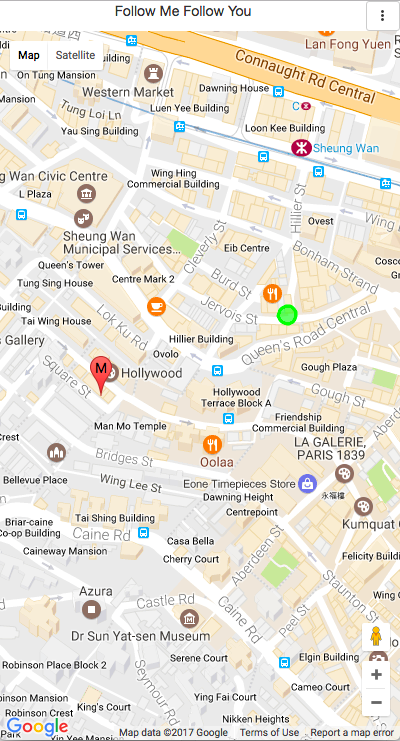
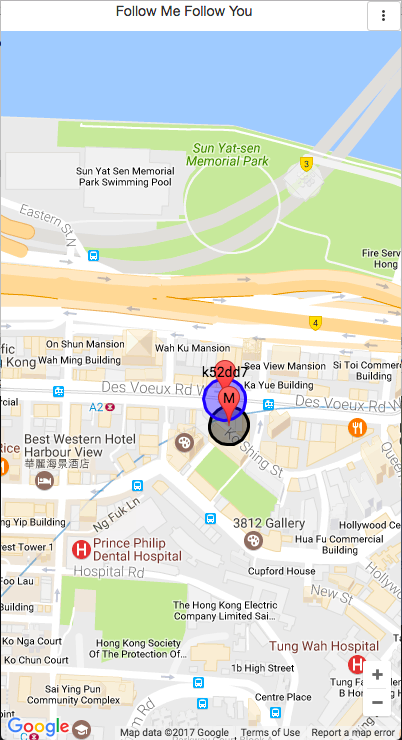
add marker class

diff --git a/js/index.js b/js/index.js
@@ -1,81 +1,155 @@
+var dheight = (window.innerHeight > 0) ? window.innerHeight : scree.height;
 var watchId = {}; //global-scoped variable for stop function to work.
 var mapDiv = document.getElementById("map");
-var uCode = {};
+var uCode = 0;
 var uPosition = {};
 var myCode = document.getElementById("sessionid").innerHTML;
-var myPosition = {};
-var myMarker;
-var uMarker;
+var me;
+var uMarkers = [];
 var gMapKey = 'YOUR_GOOGLE_MAP_JAVASCRIPT_API_KEY';
+var queryUCode;
 
-myCode = myCode.substr(myCode.length-6);
 document.getElementById("myCodeBox").innerHTML = myCode;
 
+$("#uCodeInput").change(function(){
+  uCode = $("#uCodeInput").val();
+})
+
+dheight = dheight -30;
+
+class marker{
+
+  constructor(map, name, scale, location, color = '#F00'){
+    this.map = map;
+    this.name = name;
+    this.scale = scale;
+    this.latlng = {lat: location.lat, lng: location.lng};
+    this.accuracy = location.accuracy;
+    this.color = color;
+
+    this.marker = new google.maps.Marker({
+      position: {lat: location.lat, lng: location.lng},
+      label: this.name,
+      scale: this.scale,
+      animation: google.maps.Animation.DROP,
+      map: this.map
+    });
+
+    this.radius = new google.maps.Circle({
+      center: this.latlng,
+      fillColor: this.color,
+      fillOpacity: 0.4,
+      radius: this.accuracy,
+      strokeColor: this.color,
+      strokeOpacity: 1.0,
+      strokePosition: google.maps.StrokePosition.INSIDE,
+      atrokeWeight: 1,
+      map: this.map
+    });
+
+  }
+
+  updateLocation(location){
+    this.latlng = {lat: location.coords.latitude, lng: location.coords.longitude};
+    this.accuracy = location.coords.accuracy;
+  }
+
+  updateOnMap(){
+    this.marker.setPosition(this.latlng);
+    this.radius.setCenter(this.latlng);
+    this.radius.setRadius(this.accuracy);
+  };
+
+  removeFromMap(){
+    this.marker.setMap(null);
+    this.radius.setMap(null);
+  }
+}
+
 function initMap(){
-  gmap = new google.maps.Map(mapDiv, {
-    center: {lat: 22.284, lng: 114.149},
-    zoom: 9
-  });
+  $("#map").height(dheight);
+  gmap = new google.maps.Map(
+    mapDiv,
+    {
+      center: {lat: 22.284, lng: 114.149},
+      zoom: 4,
+      streetViewControl: false,
+      mapTypeControl: false,
+    }
+  );
+};
+
+function queryUpdateUCode(){
+  if (uCode != {}){
+    $.ajax({
+      type: "POST",
+      url: "fmfu.php",
+      data: {
+        youCode: uCode
+      },
+      success: function(result){
+        result = JSON.parse(result);
+        if(result != ""){
+          result = {coords:{accuracy: result.accuracy, latitude: result.lat, longitude: result.lng}};
+          updateUMarkers(uCode, result);
+        }
+      },
+      error: function(error){
+      }
+    });
+  }
 }
 
 function startLocation(){
   if(navigator.geolocation){
+    this.me = new marker(gmap, "M", 20, {lat: 0, lng: 0, accuracy: 1000}, "#000");
     var watchId = navigator.geolocation.watchPosition(updateMPosition);
   } else{
-    box.innerHTML = "Geolocation is not supported on your device.";
+    alert("Please enable location service or location service is not supported on your device.");
   }
-
   uCode = document.getElementById("uCodeInput").value;
+  queryUCode = setInterval(function(){
+    queryUpdateUCode();
+  }, 5000);
 };
 
 function updateMPosition(position){
-  myPosition = {lat: position.coords.latitude, lng: position.coords.longitude};
-  console.debug("[DEGUB]position: ", position);
+  this.me.updateLocation(position);
+  this.me.updateOnMap();
   $.ajax({
     type: "POST",
     url: "fmfu.php",
-    data: {mCode: myCode, mlatitude: position.coords.latitude, mlongitude: position.coords.longitude, youCode: uCode},
+    data: {mCode: myCode,
+      mlatitude: position.coords.latitude,
+      mlongitude: position.coords.longitude,
+      maccuracy: position.coords.accuracy,
+      youCode: uCode
+    },
     success: function(result){
       result = JSON.parse(result);
-      createUMarker(uCode, result);
+      if(result != ""){
+        result = {coords:{accuracy: result.accuracy, latitude: result.lat, longitude: result.lng}};
+        updateUMarkers(uCode, result);
+      }
     },
     error: function(error){
-      console.debug("[DEBUG]121 error: ", error);
     }
-
   });
-  updateMyMarker();
+
 }
 
-function updateMyMarker(){
-
-  if (myMarker == null){
-    myMarker = new google.maps.Marker({
-      position: myPosition,
-      label: 'M'
-    });
-    myMarker.setMap(gmap);
-    gmap.setCenter(myMarker.getPosition());
+function updateUMarkers(uCode, uPosition){
+  if (typeof uMarkers[uCode] === "undefined"){
+    uMarkers[uCode] = new marker(gmap, uCode, 1, uPosition, "#00F");
   }else{
-    myMarker.setPosition(myPosition);
-  }
-}
+    uMarkers[uCode].updateLocation(uPosition);
+    uMarkers[uCode].updateOnMap();
 
-function createUMarker(uId, uPosition = {lat: -34.397, lng: 150.644}){
-  if (uId != ""){
-    uId = new google.maps.Circle({
-      center: uPosition,
-      fillColor: "#F50",
-      fillOpacity: 0.5,
-      radius: 2381,
-      strokeColor: "#F50",
-      strokeOpacity: 0.9,
-    });
-    uId.setMap(gmap);
   }
 }
 
 function stopLocation(){
+  clearInterval(queryUCode);
   $("#startPButton").prop('disabled', false);
   navigator.geolocation.clearWatch(watchId);
 }

diff --git a/index.php b/index.php
@@ -1,10 +1,10 @@
 <?php
-$domainName = 'https://fmfu.myDomainName.com';
+$domainName = 'https://fmfu.yourdomain.com';
 session_start();
 if (isset($_GET["m"])){
 	$sessioncode = $_GET["m"];
 }else{
-	$sessioncode = 	session_id();
+	$sessioncode = 	substr(session_id(), -6);
 }
 ?>
 <!DOCTYPE html>
@@ -35,47 +35,49 @@ if (isset($_GET["m"])){
 			<div class="modal-content">
 				<div id="panelFmfu">
 					<div class="panelTitle">Follow Me Follow You</div>
-					<br>
-					<div class="input-group">
-						<span class="input-group-addon" id="myCode">MyCode: </span>
-						<span id="myCodeBox" type="text" class="form-control" aria-describedby="myCode">test</span>
+					<div class="container">
+						<br>
+						<div class="input-group">
+							<span class="input-group-addon" id="myCode">MyCode: </span>
+							<span id="myCodeBox" type="text" class="form-control" aria-describedby="myCode">test</span>
+						</div>
+						<div class="btn-group">
+							<button type="button" class="btn btn-default btn-sm pull-right"><span class="glyphicon glyphicon-duplicate"></span></button>
+							<?php
+							echo '<a class="pull-right" href="whatsapp://send?text=' .$domainName. '/?u=' .substr($sessioncode, -6). '" data-action="share/whatsapp/share"><img src="imgs/WhatsApp30x30.png" width="30" height="30" alt="WhatsApp Share!" /></a>';
+							echo '<a class="pull-right" href="http://line.me/R/msg/text/?' .$domainName. '/?u=' .substr($sessioncode, -6). '"><img src="imgs/line30x30.png" width="30" height="30" alt="LINE it!" /></a>';
+							?>
+						</div>
+
+						<br>
+						<br>
+
+						<div class="input-group">
+							<span class="input-group-addon" id="uCode">U: </span>
+							<?php
+
+							if (isset($_GET["u"])){
+								$u = $_GET["u"];
+								echo "<input id='uCodeInput' value='$u' aria-describedby='uCode' placeholder='Put your fds code here.' ></input>";
+							}else{
+								echo "<input id='uCodeInput' aria-describedby='uCode' placeholder='Put your fds code here.'></input>";
+							}
+
+							?>
+						</div>
+						<br>
+						<button id="startPButton" type="button" class="btn btn-success start pButton" onclick="startPos()">Start</button>
+						<button id="stopPButton" type="button" class="btn btn-default stop pButton" onclick="stopLocation()">Stop</button>
+						<br>
 					</div>
-					<br>
-					<div class="btn-group">
-						<button type="button" class="btn btn-default btn-sm pull-right"><span class="glyphicon glyphicon-duplicate"></span></button>
-						<?php
-							echo '<a href="whatsapp://send?text=' .$domainName. '/?u=' .substr($sessioncode, -6). '" data-action="share/whatsapp/share"><img src="imgs/WhatsApp30x30.png" width="30" height="30" alt="WhatsApp Share!" /></a>';
-							echo '<a href="http://line.me/R/msg/text/?' .$domainName. '/?u=' .substr($sessioncode, -6). '"><img src="imgs/line30x30.png" width="30" height="30" alt="LINE it!" /></a>';
-						 ?>
-					</div>
 
-					<br>
-					<br>
-
-					<div class="input-group">
-						<span class="input-group-addon" id="uCode">Your Code: </span>
-						<?php
-
-						if (isset($_GET["u"])){
-							$u = $_GET["u"];
-							echo "<input id='uCodeInput' value='$u' aria-describedby='uCode'></input>";
-						}else{
-							echo "<input id='uCodeInput' aria-describedby='uCode'></input>";
-						}
-
-						?>
-					</div>
-					<br>
-					<button id="startPButton" type="button" class="btn btn-success start pButton" onclick="startPos()">Start</button>
-					<button id="stopPButton" type="button" class="btn btn-default stop pButton" onclick="stopLocation()">Stop</button>
-
-				</div>
+				</div><!-- id="panelFmfu" -->
 			</div>
 		</div>
 	</div>
 
 
 
-<script src="js/index.js"></script>
+	<script src="js/indexjs.js"></script>
 
 </body></html>

diff --git a/fmfu.php b/fmfu.php
@@ -1,40 +1,51 @@
 <?php
 require_once 'int/conectMysql.php';
 
-$myCode = $_POST['mCode'];
-$mylatitude = $_POST['mlatitude'];
-$mylongitude = $_POST['mlongitude'];
-$uCode = $_POST['youCode'];
-
-$stmt = $conn->prepare("INSERT INTO ext_userloc (deviceId, latitude, longitude) VALUES (?,?,?)");
-
-$stmt->bind_Param("sss", $myCode, $mylatitude, $mylongitude);
-
-if($stmt->execute()){
-	// echo "sql insert success.";
-}else{
-	echo "sql insert fail.";
+if(isset($_POST['mCode']))
+{
+	$myCode = $_POST['mCode'];
 }
 
-$stmt->close();
+if(isset($_POST['mlatitude']))
+{
+	$mylatitude = $_POST['mlatitude'];
+}
 
-if ($uCode <> null) {
+if(isset($_POST['mlongitude']))
+{
+	$mylongitude = $_POST['mlongitude'];
+}
 
-	$stmt = $conn->prepare("SELECT latitude, longitude FROM ext_userloc WHERE deviceId=? ORDER BY no DESC LIMIT 1");
+if(isset($_POST['maccuracy']))
+{
+	$myaccuracy = $_POST['maccuracy'];
+}
 
-	$stmt->bind_Param("s", $uCode);
+if(isset($_POST['youCode']))
+{
+	$uCode = $_POST['youCode'];
+}
+
+if(isset($myCode)){
+	$stmt = $conn->prepare("INSERT INTO ext_userloc (deviceId, latitude, longitude, accuracy) VALUES (?,?,?,?)");
+
+	$stmt->bind_Param("ssss", $myCode, $mylatitude, $mylongitude, $myaccuracy);
 
 	$stmt->execute();
+	$stmt->close();
+}
 
-	$stmt->bind_result($lat, $long);
+if (isset($uCode)) {
 
+	$stmt = $conn->prepare("SELECT latitude, longitude, accuracy FROM ext_userloc WHERE deviceId=? ORDER BY no DESC LIMIT 1");
+	$stmt->bind_Param("s", $uCode);
+	$stmt->execute();
+	$stmt->bind_result($lat, $long, $accuracy);
 	while ($stmt->fetch()){
-		$output = array('lat' => $lat, 'lng'=> $long);
+		$output = array('lat' => $lat, 'lng'=> $long, 'accuracy' => $accuracy);
 	}
-
 	$latlong =  json_encode($output, JSON_FORCE_OBJECT);
 	echo $latlong;
-
 }
 $conn->close();
 ?>

diff --git a/README.md b/README.md
@@ -4,6 +4,12 @@ No register, no login
 
 Share your realtime location with your friends on Google Map by a simply one click.
 
+## Update
+2017-02-12
+- Added accuracy to markers
+- Hide session ID on front-end.
+- U-marker now updates periodically.
+
 ## Screenshots
 
 ![alt tag](https://github.com/mrch4n/follow-Me-follow-You/blob/master/screenshot/fmfu-1.png)
@@ -15,3 +21,7 @@ Share your realtime location with your friends on Google Map by a simply one cli
 PHP, MySQL
 
 Run the fmfu.sql to create the needed database table.
+
+Google Map Javascript API Key is required. (js/index.js)
+
+HTTPS is required to acquire location on some browser. ( https://goo.gl/rStTGz )
